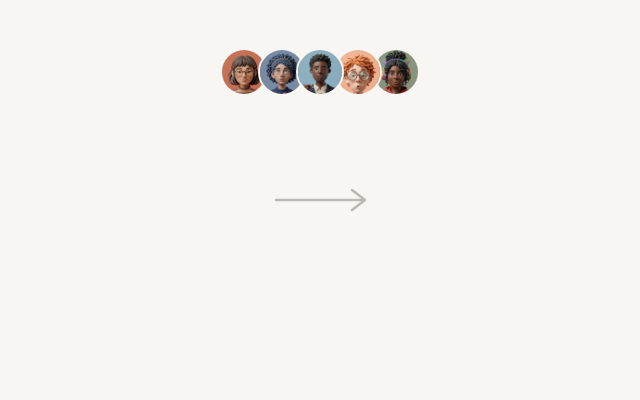
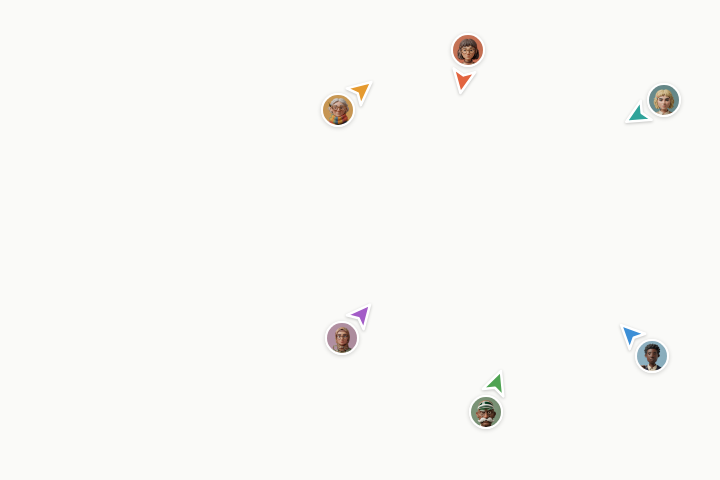
Mac disk image: the clay faces scattered, each with its cursor (#461)
Six faces around Simeon and Applications, each with a cursor in a
brighter shade of its own background, in place of the row of five and
the arrow. The window is 720 by 480 and the icons move to match.

Claude-Session: https://claude.ai/code/session_01UFMMfJ22z1MKFJiJU3AfAX

diff --git a/mac/README.md b/mac/README.md
@@ -162,7 +162,7 @@ are not counted: their changes are kept in `mac/build/release/` and the
 files put back as committed, before the build and after it.
 
 The disk image's window (29 October 2026) is `scripts/dmg.sh`: Simeon and
-an Applications link over a picture of five clay faces and an arrow
+an Applications link among six clay faces, each with its cursor
 (`dmg/background.png` and `@2x`, drawn by `dmg/background.cjs`), laid out
 by Finder. To see it without a release, after `scripts/build.sh`:
 `mac/scripts/dmg.sh` makes `mac/build/Simeon.dmg` from the Debug app and
